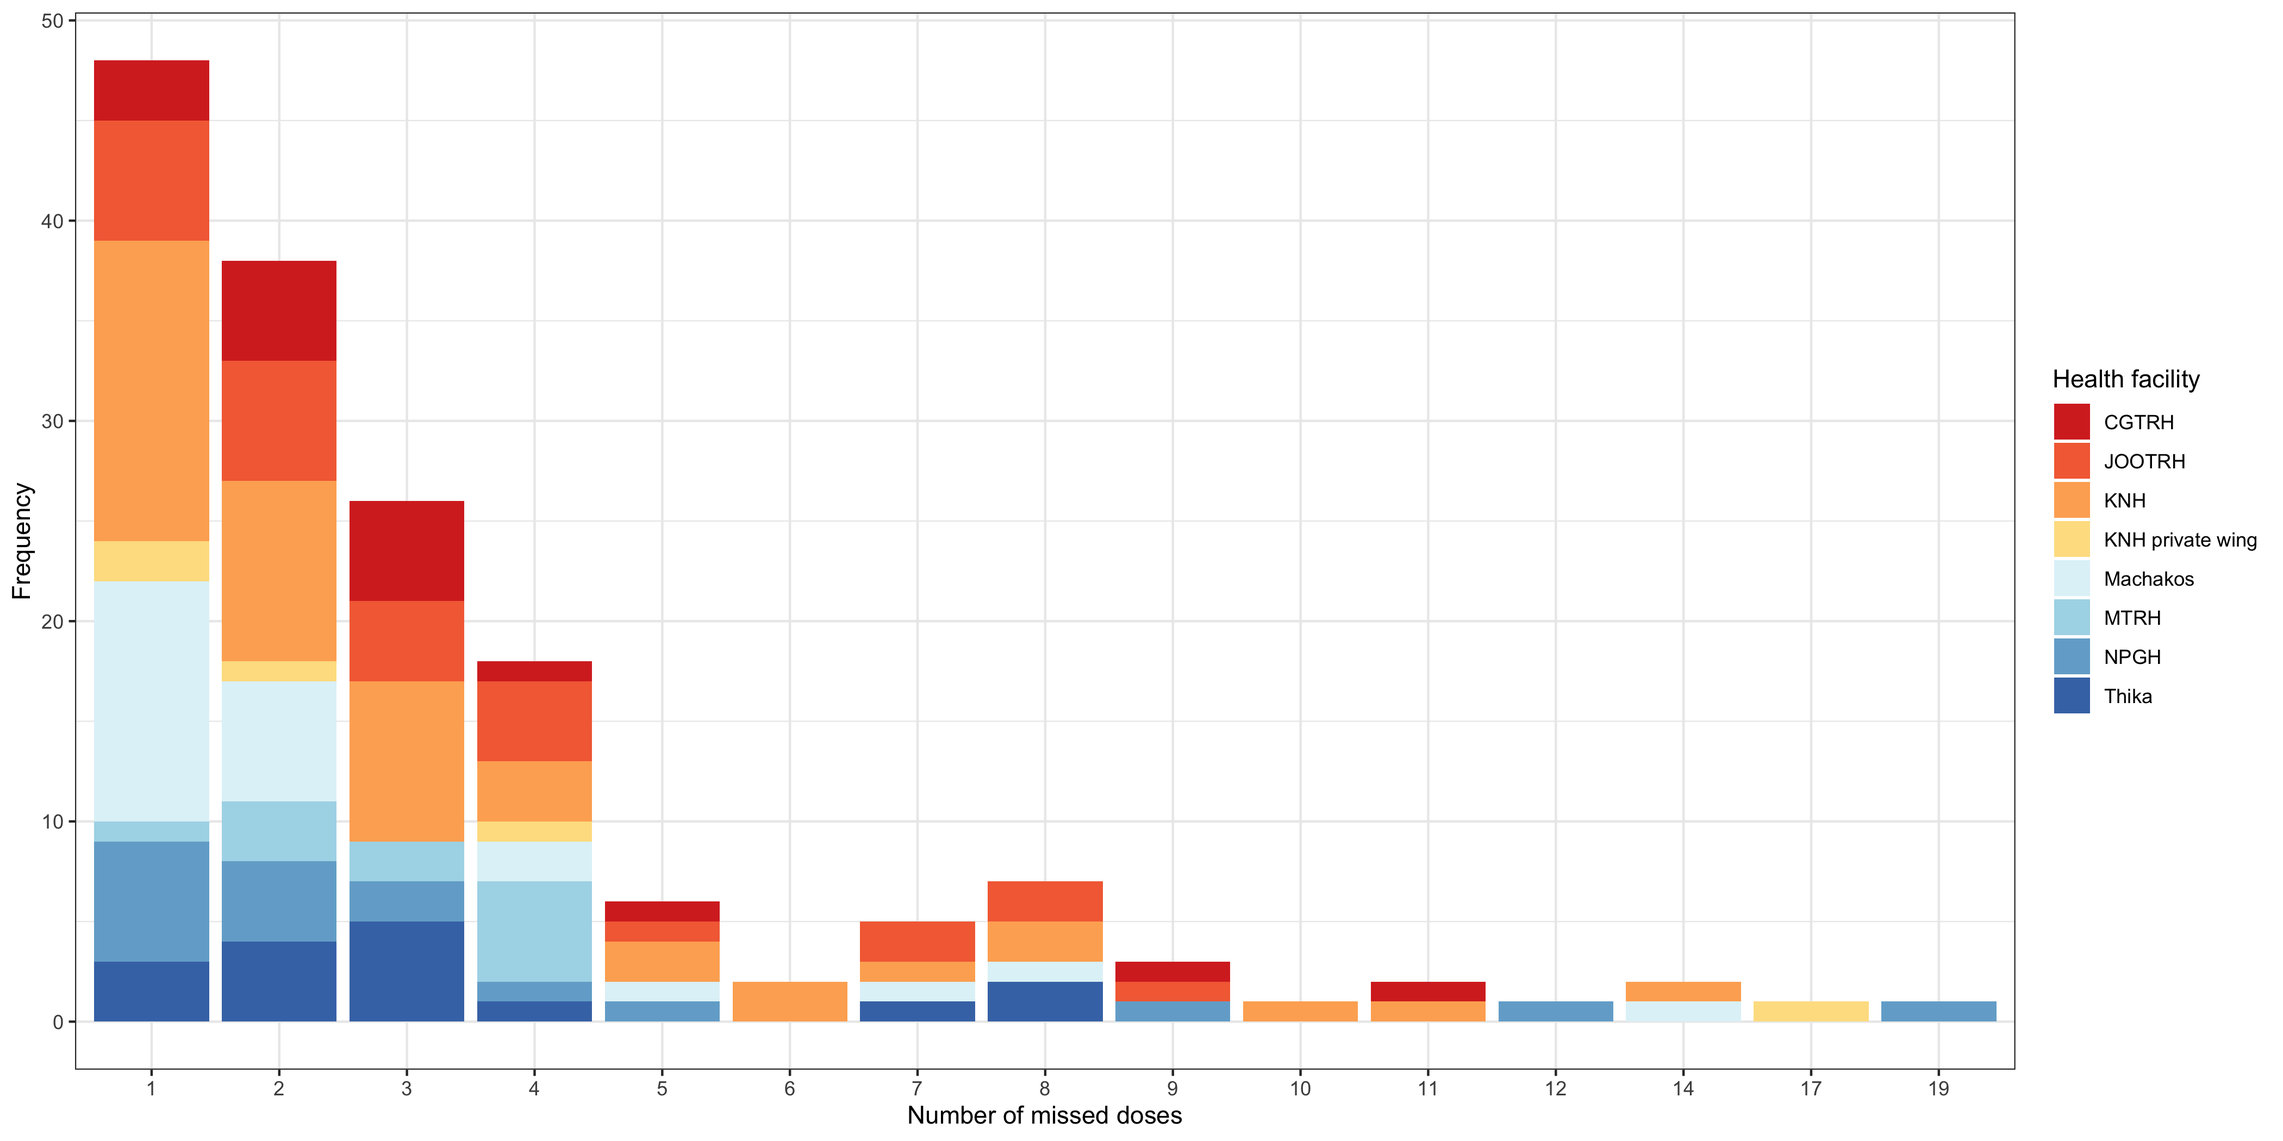
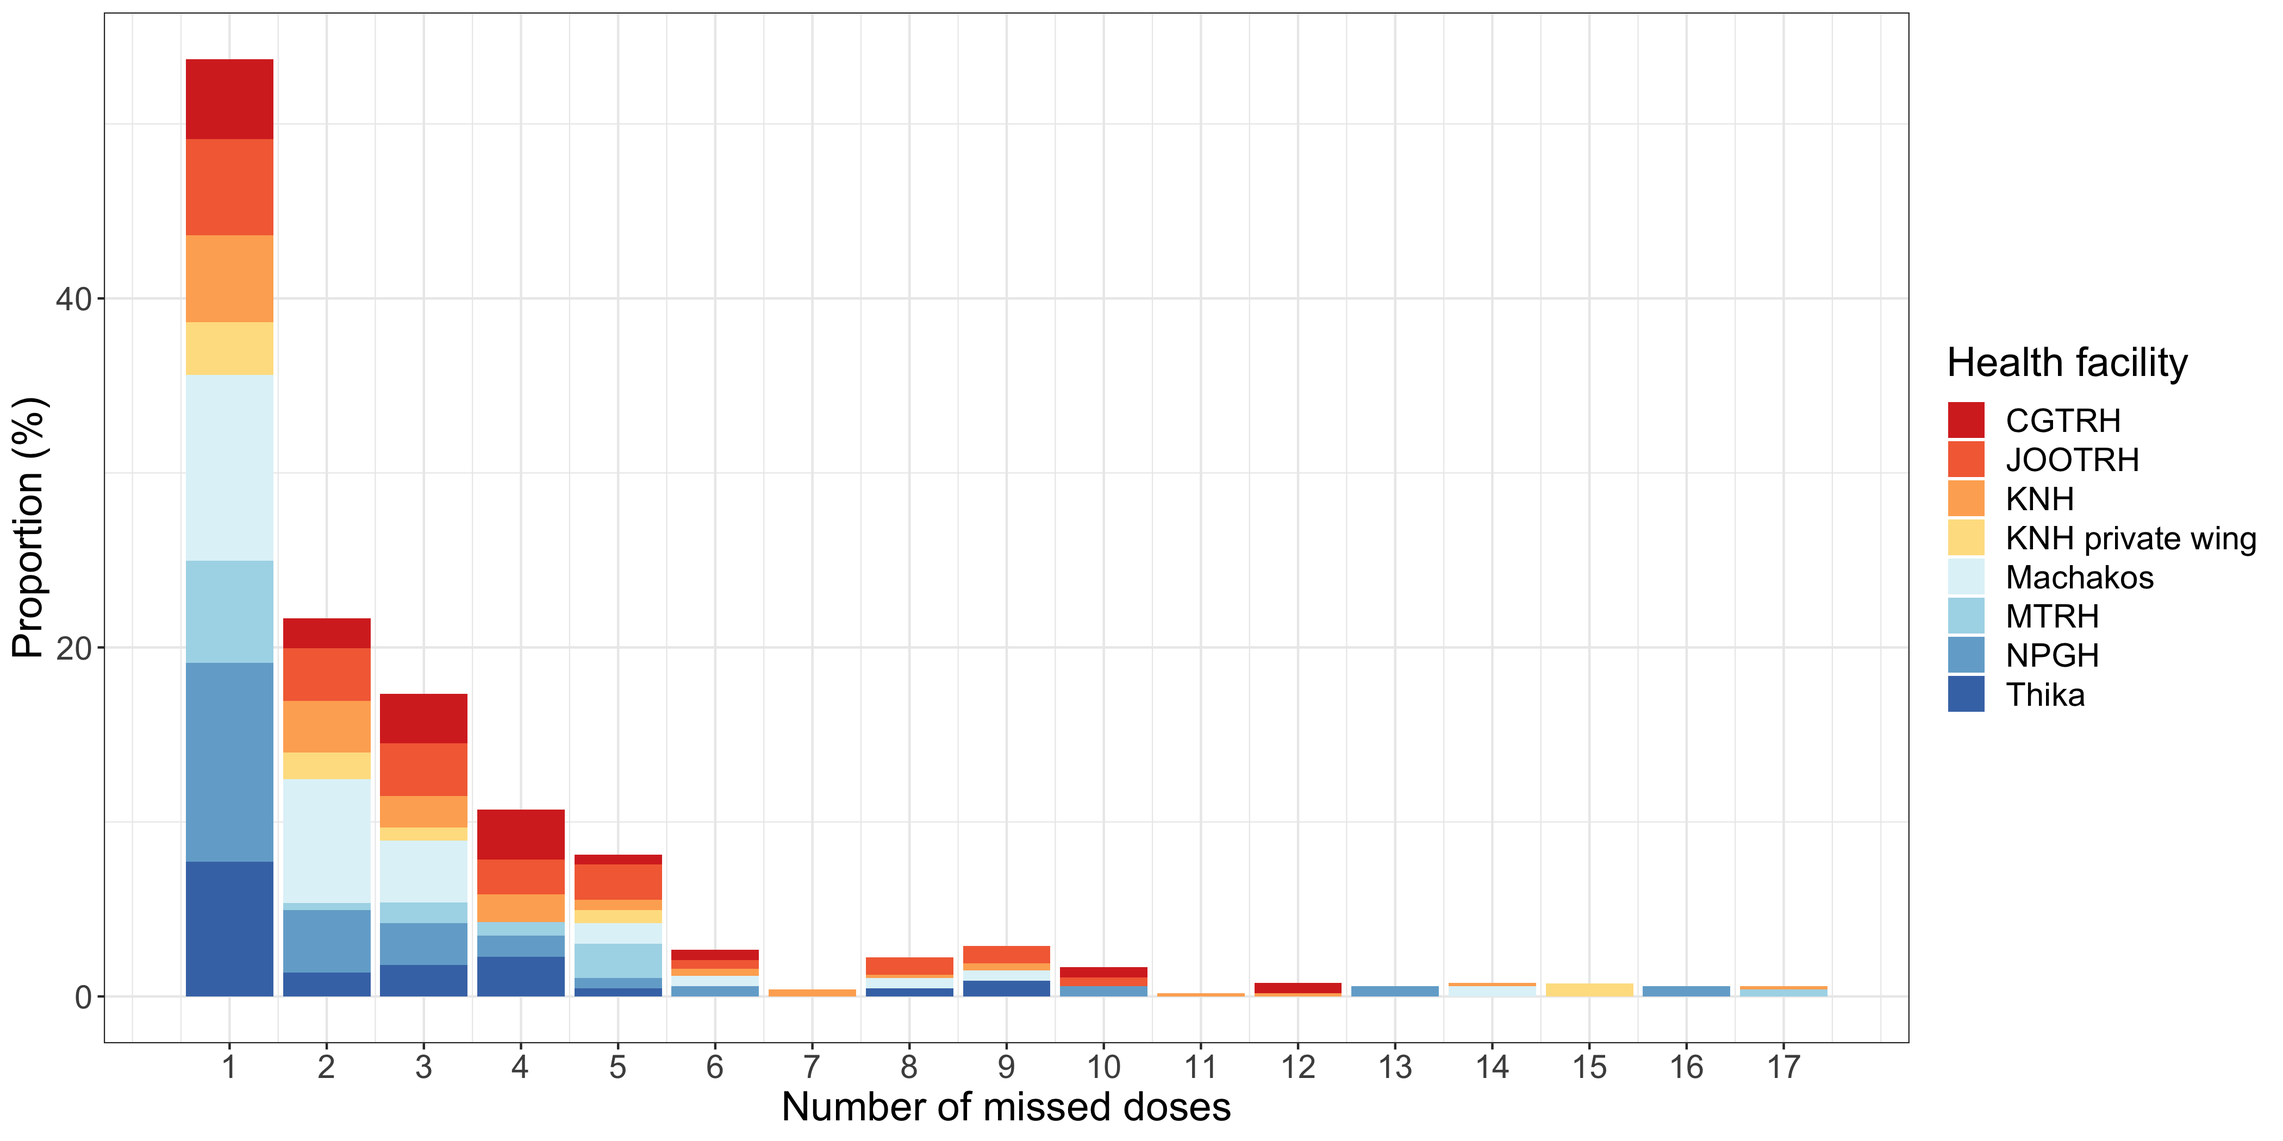
update

diff --git a/objective-2.html b/objective-2.html
@@ -101,32 +101,20 @@
 <li class="chapter" data-level="3" data-path="objective-2.html"><a href="objective-2.html"><i class="fa fa-check"></i><b>3</b> Objective 2</a></li>
 <li class="chapter" data-level="4" data-path="objective-3.html"><a href="objective-3.html"><i class="fa fa-check"></i><b>4</b> Objective 3</a></li>
 <li class="chapter" data-level="5" data-path="objective-4.html"><a href="objective-4.html"><i class="fa fa-check"></i><b>5</b> Objective 4</a><ul>
-<li class="chapter" data-level="5.1" data-path="objective-4.html"><a href="objective-4.html#cst-ordering"><i class="fa fa-check"></i><b>5.1</b> CST ordering</a></li>
+<li class="chapter" data-level="5.1" data-path="objective-4.html"><a href="objective-4.html#culture-and-sensitivity-test-ordered"><i class="fa fa-check"></i><b>5.1</b> Culture and Sensitivity test ordered</a></li>
 <li class="chapter" data-level="5.2" data-path="objective-4.html"><a href="objective-4.html#proportion-of-culture-rest-results-available-at-the-pps-day"><i class="fa fa-check"></i><b>5.2</b> Proportion of culture rest results available at the PPS day</a></li>
 <li class="chapter" data-level="5.3" data-path="objective-4.html"><a href="objective-4.html#missed-doses"><i class="fa fa-check"></i><b>5.3</b> Missed doses</a><ul>
 <li class="chapter" data-level="5.3.1" data-path="objective-4.html"><a href="objective-4.html#kenyatta-national-hospital"><i class="fa fa-check"></i><b>5.3.1</b> Kenyatta National Hospital</a></li>
-<li class="chapter" data-level="5.3.2" data-path="objective-4.html"><a href="objective-4.html#machakos-hospital-1"><i class="fa fa-check"></i><b>5.3.2</b> Machakos Hospital</a></li>
-<li class="chapter" data-level="5.3.3" data-path="objective-4.html"><a href="objective-4.html#nakuru-provincial-general-hospital-1"><i class="fa fa-check"></i><b>5.3.3</b> Nakuru Provincial General Hospital</a></li>
-<li class="chapter" data-level="5.3.4" data-path="objective-4.html"><a href="objective-4.html#thika-hospital-1"><i class="fa fa-check"></i><b>5.3.4</b> Thika Hospital</a></li>
-<li class="chapter" data-level="5.3.5" data-path="objective-4.html"><a href="objective-4.html#coast-general-teaching-and-refferal-hospital"><i class="fa fa-check"></i><b>5.3.5</b> Coast General Teaching and Refferal Hospital</a></li>
-<li class="chapter" data-level="5.3.6" data-path="objective-4.html"><a href="objective-4.html#jaramogi-oginga-odinga-teaching-and-refferal-hospital"><i class="fa fa-check"></i><b>5.3.6</b> Jaramogi Oginga Odinga Teaching and Refferal Hospital</a></li>
-<li class="chapter" data-level="5.3.7" data-path="objective-4.html"><a href="objective-4.html#moi-teaching-and-referral-hospital-1"><i class="fa fa-check"></i><b>5.3.7</b> Moi Teaching and Referral Hospital</a></li>
+<li class="chapter" data-level="5.3.2" data-path="objective-4.html"><a href="objective-4.html#knh-private-wing"><i class="fa fa-check"></i><b>5.3.2</b> KNH private wing</a></li>
+<li class="chapter" data-level="5.3.3" data-path="objective-4.html"><a href="objective-4.html#machakos-hospital-1"><i class="fa fa-check"></i><b>5.3.3</b> Machakos Hospital</a></li>
+<li class="chapter" data-level="5.3.4" data-path="objective-4.html"><a href="objective-4.html#nakuru-provincial-general-hospital-1"><i class="fa fa-check"></i><b>5.3.4</b> Nakuru Provincial General Hospital</a></li>
+<li class="chapter" data-level="5.3.5" data-path="objective-4.html"><a href="objective-4.html#thika-hospital-1"><i class="fa fa-check"></i><b>5.3.5</b> Thika Hospital</a></li>
+<li class="chapter" data-level="5.3.6" data-path="objective-4.html"><a href="objective-4.html#coast-general-teaching-and-refferal-hospital"><i class="fa fa-check"></i><b>5.3.6</b> Coast General Teaching and Refferal Hospital</a></li>
+<li class="chapter" data-level="5.3.7" data-path="objective-4.html"><a href="objective-4.html#jaramogi-oginga-odinga-teaching-and-refferal-hospital"><i class="fa fa-check"></i><b>5.3.7</b> Jaramogi Oginga Odinga Teaching and Refferal Hospital</a></li>
+<li class="chapter" data-level="5.3.8" data-path="objective-4.html"><a href="objective-4.html#moi-teaching-and-referral-hospital-1"><i class="fa fa-check"></i><b>5.3.8</b> Moi Teaching and Referral Hospital</a></li>
 </ul></li>
-</ul></li>
-<li class="chapter" data-level="6" data-path="objective-4-1.html"><a href="objective-4-1.html"><i class="fa fa-check"></i><b>6</b> Objective 4</a><ul>
-<li class="chapter" data-level="6.1" data-path="objective-4-1.html"><a href="objective-4-1.html#cst-ordering-1"><i class="fa fa-check"></i><b>6.1</b> CST ordering</a></li>
-<li class="chapter" data-level="6.2" data-path="objective-4-1.html"><a href="objective-4-1.html#proportion-of-culture-rest-results-available-at-the-pps-day-1"><i class="fa fa-check"></i><b>6.2</b> Proportion of culture rest results available at the PPS day</a></li>
-<li class="chapter" data-level="6.3" data-path="objective-4-1.html"><a href="objective-4-1.html#missed-doses-1"><i class="fa fa-check"></i><b>6.3</b> Missed doses</a><ul>
-<li class="chapter" data-level="6.3.1" data-path="objective-4-1.html"><a href="objective-4-1.html#kenyatta-national-hospital-1"><i class="fa fa-check"></i><b>6.3.1</b> Kenyatta National Hospital</a></li>
-<li class="chapter" data-level="6.3.2" data-path="objective-4-1.html"><a href="objective-4-1.html#machakos-hospital-2"><i class="fa fa-check"></i><b>6.3.2</b> Machakos Hospital</a></li>
-<li class="chapter" data-level="6.3.3" data-path="objective-4-1.html"><a href="objective-4-1.html#nakuru-provincial-general-hospital-2"><i class="fa fa-check"></i><b>6.3.3</b> Nakuru Provincial General Hospital</a></li>
-<li class="chapter" data-level="6.3.4" data-path="objective-4-1.html"><a href="objective-4-1.html#thika-hospital-2"><i class="fa fa-check"></i><b>6.3.4</b> Thika Hospital</a></li>
-<li class="chapter" data-level="6.3.5" data-path="objective-4-1.html"><a href="objective-4-1.html#coast-general-teaching-and-refferal-hospital-1"><i class="fa fa-check"></i><b>6.3.5</b> Coast General Teaching and Refferal Hospital</a></li>
-<li class="chapter" data-level="6.3.6" data-path="objective-4-1.html"><a href="objective-4-1.html#jaramogi-oginga-odinga-teaching-and-refferal-hospital-1"><i class="fa fa-check"></i><b>6.3.6</b> Jaramogi Oginga Odinga Teaching and Refferal Hospital</a></li>
-<li class="chapter" data-level="6.3.7" data-path="objective-4-1.html"><a href="objective-4-1.html#moi-teaching-and-referral-hospital-2"><i class="fa fa-check"></i><b>6.3.7</b> Moi Teaching and Referral Hospital</a></li>
-</ul></li>
-<li class="chapter" data-level="6.4" data-path="objective-4-1.html"><a href="objective-4-1.html#results"><i class="fa fa-check"></i><b>6.4</b> Results</a></li>
-<li class="chapter" data-level="6.5" data-path="objective-4-1.html"><a href="objective-4-1.html#results-1"><i class="fa fa-check"></i><b>6.5</b> Results</a></li>
+<li class="chapter" data-level="5.4" data-path="objective-4.html"><a href="objective-4.html#results"><i class="fa fa-check"></i><b>5.4</b> Results</a></li>
+<li class="chapter" data-level="5.5" data-path="objective-4.html"><a href="objective-4.html#results-1"><i class="fa fa-check"></i><b>5.5</b> Results</a></li>
 </ul></li>
 <li class="divider"></li>
 <li><a href="https://github.com/rstudio/bookdown" target="blank">Published with bookdown</a></li>
@@ -639,7 +627,7 @@
 </table>
 <div class="figure">
 <img src="missed_doses.png" alt="" />
-<p class="caption">Number of missed doses per health facility</p>
+<p class="caption">Proportion of missed doses per health facility</p>
 </div>
 
 </div>

diff --git a/index.html b/index.html
@@ -113,21 +113,8 @@
 <li class="chapter" data-level="5.3.7" data-path="objective-4.html"><a href="objective-4.html#jaramogi-oginga-odinga-teaching-and-refferal-hospital"><i class="fa fa-check"></i><b>5.3.7</b> Jaramogi Oginga Odinga Teaching and Refferal Hospital</a></li>
 <li class="chapter" data-level="5.3.8" data-path="objective-4.html"><a href="objective-4.html#moi-teaching-and-referral-hospital-1"><i class="fa fa-check"></i><b>5.3.8</b> Moi Teaching and Referral Hospital</a></li>
 </ul></li>
-</ul></li>
-<li class="chapter" data-level="6" data-path="objective-4-1.html"><a href="objective-4-1.html"><i class="fa fa-check"></i><b>6</b> Objective 4</a><ul>
-<li class="chapter" data-level="6.1" data-path="objective-4-1.html"><a href="objective-4-1.html#cst-ordering"><i class="fa fa-check"></i><b>6.1</b> CST ordering</a></li>
-<li class="chapter" data-level="6.2" data-path="objective-4-1.html"><a href="objective-4-1.html#proportion-of-culture-rest-results-available-at-the-pps-day-1"><i class="fa fa-check"></i><b>6.2</b> Proportion of culture rest results available at the PPS day</a></li>
-<li class="chapter" data-level="6.3" data-path="objective-4-1.html"><a href="objective-4-1.html#missed-doses-1"><i class="fa fa-check"></i><b>6.3</b> Missed doses</a><ul>
-<li class="chapter" data-level="6.3.1" data-path="objective-4-1.html"><a href="objective-4-1.html#kenyatta-national-hospital-1"><i class="fa fa-check"></i><b>6.3.1</b> Kenyatta National Hospital</a></li>
-<li class="chapter" data-level="6.3.2" data-path="objective-4-1.html"><a href="objective-4-1.html#machakos-hospital-2"><i class="fa fa-check"></i><b>6.3.2</b> Machakos Hospital</a></li>
-<li class="chapter" data-level="6.3.3" data-path="objective-4-1.html"><a href="objective-4-1.html#nakuru-provincial-general-hospital-2"><i class="fa fa-check"></i><b>6.3.3</b> Nakuru Provincial General Hospital</a></li>
-<li class="chapter" data-level="6.3.4" data-path="objective-4-1.html"><a href="objective-4-1.html#thika-hospital-2"><i class="fa fa-check"></i><b>6.3.4</b> Thika Hospital</a></li>
-<li class="chapter" data-level="6.3.5" data-path="objective-4-1.html"><a href="objective-4-1.html#coast-general-teaching-and-refferal-hospital-1"><i class="fa fa-check"></i><b>6.3.5</b> Coast General Teaching and Refferal Hospital</a></li>
-<li class="chapter" data-level="6.3.6" data-path="objective-4-1.html"><a href="objective-4-1.html#jaramogi-oginga-odinga-teaching-and-refferal-hospital-1"><i class="fa fa-check"></i><b>6.3.6</b> Jaramogi Oginga Odinga Teaching and Refferal Hospital</a></li>
-<li class="chapter" data-level="6.3.7" data-path="objective-4-1.html"><a href="objective-4-1.html#moi-teaching-and-referral-hospital-2"><i class="fa fa-check"></i><b>6.3.7</b> Moi Teaching and Referral Hospital</a></li>
-</ul></li>
-<li class="chapter" data-level="6.4" data-path="objective-4-1.html"><a href="objective-4-1.html#results"><i class="fa fa-check"></i><b>6.4</b> Results</a></li>
-<li class="chapter" data-level="6.5" data-path="objective-4-1.html"><a href="objective-4-1.html#results-1"><i class="fa fa-check"></i><b>6.5</b> Results</a></li>
+<li class="chapter" data-level="5.4" data-path="objective-4.html"><a href="objective-4.html#results"><i class="fa fa-check"></i><b>5.4</b> Results</a></li>
+<li class="chapter" data-level="5.5" data-path="objective-4.html"><a href="objective-4.html#results-1"><i class="fa fa-check"></i><b>5.5</b> Results</a></li>
 </ul></li>
 <li class="divider"></li>
 <li><a href="https://github.com/rstudio/bookdown" target="blank">Published with bookdown</a></li>
@@ -184,17 +171,16 @@
 <p class="caption">Figure 1: Location of the health facilities that provided data for this survey</p>
 </div>
 <p>Table 1: Characteristics of the health facilities under the study</p>
-<table style="width:100%;">
+<table>
 <colgroup>
-<col width="18%" />
-<col width="10%" />
+<col width="19%" />
 <col width="11%" />
-<col width="10%" />
-<col width="10%" />
-<col width="10%" />
-<col width="10%" />
+<col width="12%" />
 <col width="11%" />
-<col width="3%" />
+<col width="11%" />
+<col width="11%" />
+<col width="11%" />
+<col width="12%" />
 </colgroup>
 <thead>
 <tr class="header">
@@ -206,7 +192,6 @@
 <th align="center">Nakuru provincial General Hospital</th>
 <th align="center">Thika Hospital</th>
 <th align="center">Total</th>
-<th align="right">p value</th>
 </tr>
 </thead>
 <tbody>
@@ -219,7 +204,6 @@
 <td align="center">750</td>
 <td align="center">500</td>
 <td align="center">854</td>
-<td align="right"></td>
 </tr>
 <tr class="even">
 <td align="left">Annual admission rate</td>
@@ -230,7 +214,6 @@
 <td align="center">39,140</td>
 <td align="center">25,506</td>
 <td align="center">36120</td>
-<td align="right"></td>
 </tr>
 <tr class="odd">
 <td align="left">Clinical microbiology laboratory</td>
@@ -241,7 +224,6 @@
 <td align="center">Yes</td>
 <td align="center">Yes</td>
 <td align="center">Yes</td>
-<td align="right"></td>
 </tr>
 <tr class="even">
 <td align="left">Tests conducted in last 3 months to identify clinical culture isolates</td>
@@ -252,7 +234,6 @@
 <td align="center">194</td>
 <td align="center">73</td>
 <td align="center">1277</td>
-<td align="right"></td>
 </tr>
 <tr class="odd">
 <td align="left">Antibiotic susceptibility tests in the last 3 months</td>
@@ -263,7 +244,6 @@
 <td align="center">34</td>
 <td align="center">21</td>
 <td align="center">133,697</td>
-<td align="right"></td>
 </tr>
 <tr class="even">
 <td align="left">Stewardship committee</td>
@@ -274,7 +254,6 @@
 <td align="center">Yes</td>
 <td align="center">Yes</td>
 <td align="center"></td>
-<td align="right"></td>
 </tr>
 <tr class="odd">
 <td align="left">Prevention &amp; Control committee</td>
@@ -285,7 +264,6 @@
 <td align="center">Yes</td>
 <td align="center">Yes</td>
 <td align="center"></td>
-<td align="right"></td>
 </tr>
 <tr class="even">
 <td align="left">Drugs &amp; Therapeutics committee</td>
@@ -296,7 +274,6 @@
 <td align="center">Yes</td>
 <td align="center">Yes</td>
 <td align="center"></td>
-<td align="right"></td>
 </tr>
 <tr class="odd">
 <td align="left">Essential Drug List available in the ward</td>
@@ -307,7 +284,6 @@
 <td align="center">No</td>
 <td align="center">No</td>
 <td align="center"></td>
-<td align="right"></td>
 </tr>
 <tr class="even">
 <td align="left">Training provided on local antibiotic resistance patterns and concerns in the past year</td>
@@ -318,7 +294,6 @@
 <td align="center">No</td>
 <td align="center">Yes</td>
 <td align="center"></td>
-<td align="right"></td>
 </tr>
 <tr class="odd">
 <td align="left">Written policy for prescribers to provide a rationale for prescribing antibiotics</td>
@@ -329,7 +304,6 @@
 <td align="center">No</td>
 <td align="center">Yes</td>
 <td align="center"></td>
-<td align="right"></td>
 </tr>
 <tr class="even">
 <td align="left">Antimiocrobial susceptibility report in past year</td>
@@ -340,7 +314,6 @@
 <td align="center">No</td>
 <td align="center">Yes</td>
 <td align="center"></td>
-<td align="right"></td>
 </tr>
 <tr class="odd">
 <td align="left">Audit or review surgical antimicrobial prophylaxis choice</td>
@@ -351,7 +324,6 @@
 <td align="center">No</td>
 <td align="center">Yes</td>
 <td align="center"></td>
-<td align="right"></td>
 </tr>
 <tr class="even">
 <td align="left">Results of antimicrobial audits communicated with prescribers</td>
@@ -362,7 +334,6 @@
 <td align="center">No</td>
 <td align="center">No</td>
 <td align="center"></td>
-<td align="right"></td>
 </tr>
 </tbody>
 </table>

diff --git a/objective-1.html b/objective-1.html
@@ -113,21 +113,8 @@
 <li class="chapter" data-level="5.3.7" data-path="objective-4.html"><a href="objective-4.html#jaramogi-oginga-odinga-teaching-and-refferal-hospital"><i class="fa fa-check"></i><b>5.3.7</b> Jaramogi Oginga Odinga Teaching and Refferal Hospital</a></li>
 <li class="chapter" data-level="5.3.8" data-path="objective-4.html"><a href="objective-4.html#moi-teaching-and-referral-hospital-1"><i class="fa fa-check"></i><b>5.3.8</b> Moi Teaching and Referral Hospital</a></li>
 </ul></li>
-</ul></li>
-<li class="chapter" data-level="6" data-path="objective-4-1.html"><a href="objective-4-1.html"><i class="fa fa-check"></i><b>6</b> Objective 4</a><ul>
-<li class="chapter" data-level="6.1" data-path="objective-4-1.html"><a href="objective-4-1.html#cst-ordering"><i class="fa fa-check"></i><b>6.1</b> CST ordering</a></li>
-<li class="chapter" data-level="6.2" data-path="objective-4-1.html"><a href="objective-4-1.html#proportion-of-culture-rest-results-available-at-the-pps-day-1"><i class="fa fa-check"></i><b>6.2</b> Proportion of culture rest results available at the PPS day</a></li>
-<li class="chapter" data-level="6.3" data-path="objective-4-1.html"><a href="objective-4-1.html#missed-doses-1"><i class="fa fa-check"></i><b>6.3</b> Missed doses</a><ul>
-<li class="chapter" data-level="6.3.1" data-path="objective-4-1.html"><a href="objective-4-1.html#kenyatta-national-hospital-1"><i class="fa fa-check"></i><b>6.3.1</b> Kenyatta National Hospital</a></li>
-<li class="chapter" data-level="6.3.2" data-path="objective-4-1.html"><a href="objective-4-1.html#machakos-hospital-2"><i class="fa fa-check"></i><b>6.3.2</b> Machakos Hospital</a></li>
-<li class="chapter" data-level="6.3.3" data-path="objective-4-1.html"><a href="objective-4-1.html#nakuru-provincial-general-hospital-2"><i class="fa fa-check"></i><b>6.3.3</b> Nakuru Provincial General Hospital</a></li>
-<li class="chapter" data-level="6.3.4" data-path="objective-4-1.html"><a href="objective-4-1.html#thika-hospital-2"><i class="fa fa-check"></i><b>6.3.4</b> Thika Hospital</a></li>
-<li class="chapter" data-level="6.3.5" data-path="objective-4-1.html"><a href="objective-4-1.html#coast-general-teaching-and-refferal-hospital-1"><i class="fa fa-check"></i><b>6.3.5</b> Coast General Teaching and Refferal Hospital</a></li>
-<li class="chapter" data-level="6.3.6" data-path="objective-4-1.html"><a href="objective-4-1.html#jaramogi-oginga-odinga-teaching-and-refferal-hospital-1"><i class="fa fa-check"></i><b>6.3.6</b> Jaramogi Oginga Odinga Teaching and Refferal Hospital</a></li>
-<li class="chapter" data-level="6.3.7" data-path="objective-4-1.html"><a href="objective-4-1.html#moi-teaching-and-referral-hospital-2"><i class="fa fa-check"></i><b>6.3.7</b> Moi Teaching and Referral Hospital</a></li>
-</ul></li>
-<li class="chapter" data-level="6.4" data-path="objective-4-1.html"><a href="objective-4-1.html#results"><i class="fa fa-check"></i><b>6.4</b> Results</a></li>
-<li class="chapter" data-level="6.5" data-path="objective-4-1.html"><a href="objective-4-1.html#results-1"><i class="fa fa-check"></i><b>6.5</b> Results</a></li>
+<li class="chapter" data-level="5.4" data-path="objective-4.html"><a href="objective-4.html#results"><i class="fa fa-check"></i><b>5.4</b> Results</a></li>
+<li class="chapter" data-level="5.5" data-path="objective-4.html"><a href="objective-4.html#results-1"><i class="fa fa-check"></i><b>5.5</b> Results</a></li>
 </ul></li>
 <li class="divider"></li>
 <li><a href="https://github.com/rstudio/bookdown" target="blank">Published with bookdown</a></li>

diff --git a/style.css b/style.css
@@ -12,3 +12,9 @@ pre {
 pre code {
   white-space: inherit;
 }
+.page-inner {
+  width: 95%;
+}
+.book .book-body .page-wrapper .page-inner {
+  max-width: 90%;
+}
